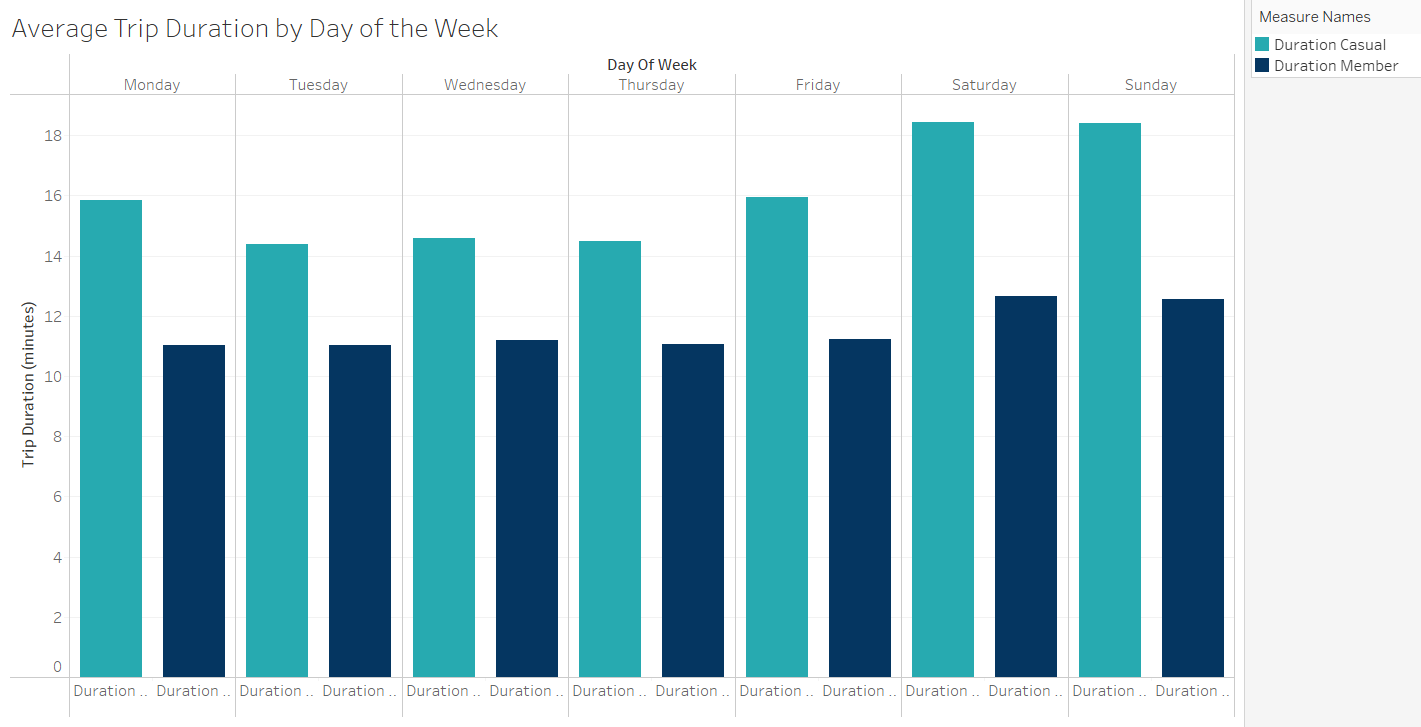
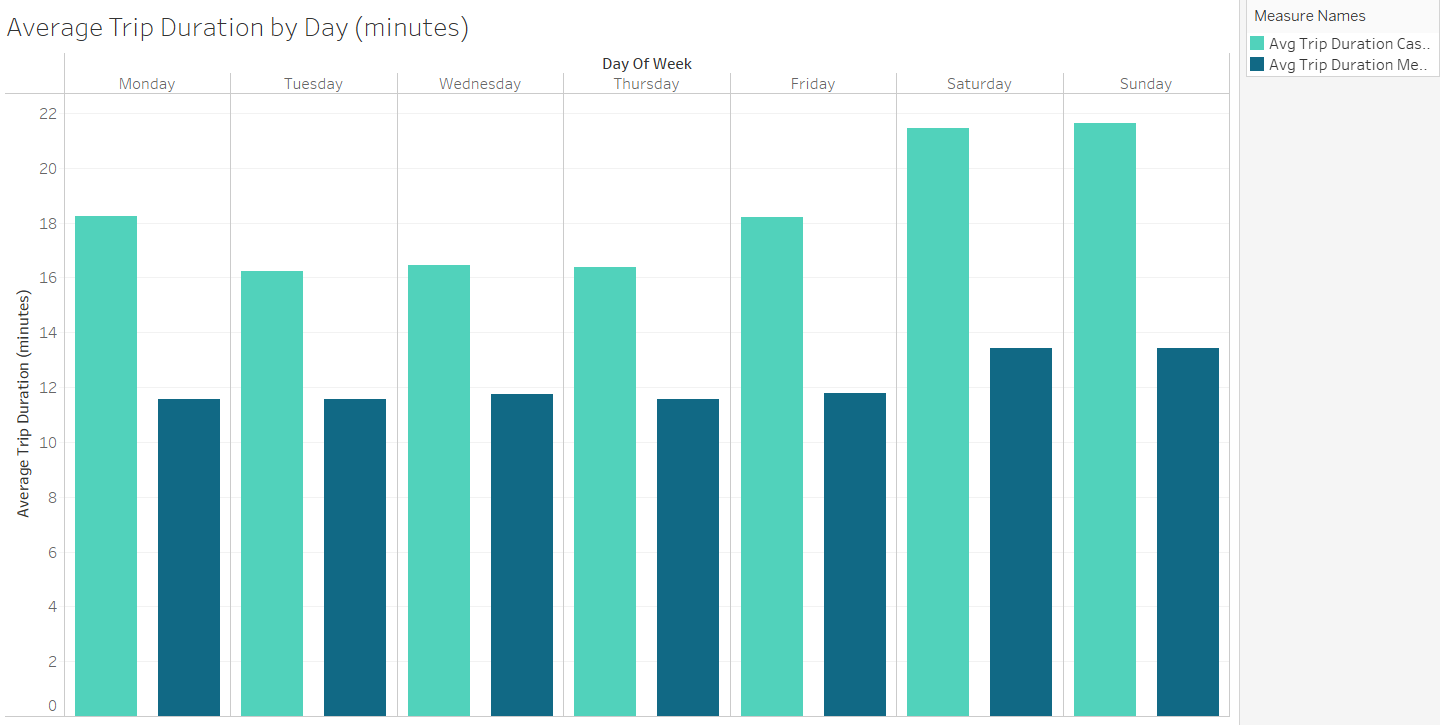
fixed analysis SQL queries and documentation

diff --git a/readme.md b/readme.md
@@ -638,8 +638,8 @@ GROUP BY
 ```
 | member_casual | number_of_trips |
 |---------------|-----------------|
-| casual        | 2164197         |
-| member        | 3761927         |
+| casual        | 2042971         |
+| member        | 3602825         |
 
 There are more trips taken by Member clients than Casual clients. Around 63% of the trips were taken by member clients, Casual clients represent around 37% of the trips.
 
@@ -656,14 +656,14 @@ GROUP BY
 ```
 | rideable_type    | trips_casual | trips_member |
 |------------------|--------------|--------------|
-| classic_bike     | 979745       | 1810477      |
-| electric_bike    | 1099237      | 1892328      |
-| electric_scooter | 85215        | 59122        |
+| classic_bike     | 941136       | 1756425      |
+| electric_bike    | 1022780      | 1792286      |
+| electric_scooter | 79055        | 54114        |
 
 #### Member Clients:
-![trips by rideable type, member clients](/images/char_trips_rideable_member.png)
+![trips by rideable type, member clients](/images/trips_rideable_member.png)
 #### Casual Clients:
-![trips by rideable type, casual clients](/images/chart_trips_rideable_casual.png)
+![trips by rideable type, casual clients](/images/trips_rideable_casual.png)
 
 The insight obtained from this, is that the preference of bikes of each type of client is very simillar, the most popular bike for both client types is the electric bike, followed by the classic bike. A small number of trips were taken with electric scooters. 
 
@@ -682,7 +682,7 @@ ORDER BY
 	month
 ```
 ![number of trips by month](/images/number_trips_month.png)
-The usage of bikes by month by both type of users is very, both having a peak in the Summer months, specially in late August. The number of trips of both client types go down in the Winter months.
+The usage of bikes by month by both type of users is very similar, both having a peak in the Summer months, specially in late August. The number of trips of both client types go down in the Winter months reaching its lower point in January.
 Member clients take more trips than casual during all months of the year.    
 
 
@@ -735,22 +735,21 @@ Casual clients tend to take more trips in the afternoon, peaking at 5pm. The usa
 
 
 ### Number of trips by station
-**Member Clients**:
 ```SQL
 SELECT
 	start_station_name,
 	AVG(start_lat) AS avg_latitude,
 	AVG(start_lng) AS avg_longitude,
-	count(*) AS number_of_trips
+	count(*) FILTER (WHERE member_casual = 'member') AS number_trips_member,
+	count(*) FILTER (WHERE member_casual = 'casual') AS number_trips_casual
 FROM 
 	trip_data_staging
 WHERE
-	start_station_name IS NOT NULL AND member_casual = 'member'
+	start_station_name IS NOT NULL
 GROUP BY
 	start_station_name
-ORDER BY 
-	number_of_trips DESC
 ```
+**Member Clients**:
 ![number of trips by station, member clients](/images/trips_stations_members.png)
 
 The most popular stations for Member clients are in areas where the businesses are located like "The Loop", and high density residential buildings such as "Near North Side". Popular stations are also well distributed to the North of Chicago up to residential neighborhoods like "Lake View". Also, there are popular stations in university areas, like Hyde Park where the University of Chicago is located.
@@ -759,24 +758,9 @@ The fact that there are many station with a high volume of trips started in thes
 
 
 **Casual Clients**:
-```SQL
-SELECT
-	start_station_name,
-	AVG(start_lat) AS avg_latitude,
-	AVG(start_lng) AS avg_longitude,
-	count(*) AS number_of_trips
-FROM 
-	trip_data_staging
-WHERE
-	start_station_name IS NOT NULL AND member_casual = 'casual'
-GROUP BY
-	start_station_name
-ORDER BY 
-	number_of_trips DESC
-```
 ![number of trips by station, casual clients](/images/trips_stations_casual.png)
 The most popular stations to start a trip for Casual clients are in areas with parks or attractions, like the one located in Adler Planetarium, the Shed Aquarium, Millenium Park and Maggie Daley Park, the one in Lake Shore & North Boulevard by the Lincoln Monument Gardens and the Chicago History Museum.
-The most popular station, with 50925 trips started, is the station in Streeter Dr & Grand Ave where the Addams (Jane) Memorial Park is, and the Navy Pier.
+The most popular station, with 48286 trips started, is the station in Streeter Dr & Grand Ave where the Addams (Jane) Memorial Park is, and the Navy Pier.
 
 The insights obtained from this is that casual clients prefer to start their trips from stations located in parks and near touristic attractions, this also can indicate that there might be a percentage of casual clients who are tourists.
 
@@ -785,33 +769,29 @@ The insights obtained from this is that casual clients prefer to start their tri
 ```SQL
 SELECT 
 	member_casual,
-	AVG (EXTRACT(EPOCH FROM (ended_at - started_at)) / 60) AS avg_trip_duration_minutes
+	AVG (trip_duration_minutes) AS avg_trip_duration_minutes
 FROM
 	trip_data_staging
-WHERE
-	z_score <= 3
 GROUP BY
 	member_casual
 ```
 | member_casual | avg_trip_duration_minutes  |
 |---------------|----------------------------|
-| casual        | 16.33344901926014037650    |
-| member        | 11.46290994790177282110    |
+| casual        | 18.7873701557274512        |
+| member        | 12.0712984698303877        |
 
-Casual clients take longer trips than Member clients, the average duration of a Casual client's trip is around 16.33 minutes, while the average trip duration of a Member client is around 11.46 minutes.
+Casual clients take longer trips than Member clients, the average duration of a Casual client's trip is around 18.79 minutes, while the average trip duration of a Member client is around 12.07 minutes.
 
 ### Average trip duration by day of the week (in minutes)
 ```SQL
 SELECT 
     TO_CHAR(started_at, 'Day') AS day_of_week,
-    AVG (EXTRACT(EPOCH FROM (ended_at - started_at)) / 60) 
+    AVG (trip_duration_minutes) 
 		FILTER (WHERE member_casual = 'member') AS avg_trip_duration_member,
-	AVG (EXTRACT(EPOCH FROM (ended_at - started_at)) / 60) 
+	AVG (trip_duration_minutes) 
 		FILTER (WHERE member_casual = 'casual') AS avg_trip_duration_casual
 FROM
 	trip_data_staging
-WHERE
-	z_score <= 3
 GROUP BY
 	day_of_week
 ```
@@ -823,21 +803,19 @@ Casual clients take longer trips than Member clients during all days of the week
 ```SQL
 SELECT 
     EXTRACT(HOUR FROM started_at) AS hour_of_day,
-    AVG (EXTRACT(EPOCH FROM (ended_at - started_at)) / 60) 
+    AVG (trip_duration_minutes) 
 		FILTER (WHERE member_casual = 'member') AS avg_trip_duration_member,
-	AVG (EXTRACT(EPOCH FROM (ended_at - started_at)) / 60) 
+	AVG (trip_duration_minutes) 
 		FILTER (WHERE member_casual = 'casual') AS avg_trip_duration_casual
 FROM
 	trip_data_staging
-WHERE
-	z_score <= 3
 GROUP BY
 	hour_of_day
 ```
 ![average trip duration by day of the week](/images/avg_duration_hour.png)
-Casual clients take longer trips than Member clients during all hours of the day. The longest trip durations of Casual clients are registered from 10am to 5pm, with the maximum average trip duration being reached at 2pm with 18.74 minutes. The lowest average trip duration of Casual clients was registerd at 6am, 10.6 minutes.
+Casual clients take longer trips than Member clients during all hours of the day. The longest trip durations of Casual clients are registered from 10am to 5pm, with the maximum average trip duration being reached at 11am with 22.48 minutes. The lowest average trip duration of Casual clients was registerd at 6am, 11.88 minutes.
 
-The trip durations of Member clients are quite similar during the day, they start increasing at 10am and reach their maximum at 5pm with 12.3 minutes of average duration. The lowest average trip duration, just like Casual clients, are registered at 6am being 9.76 minutes.
+The trip durations of Member clients are quite similar during the day, they start increasing at 10am and reach their maximum at 5pm with 12.86 minutes of average duration. The lowest average trip duration, just like Casual clients, are registered at 6am being 10.24 minutes.
 
 
 # Recommendations
